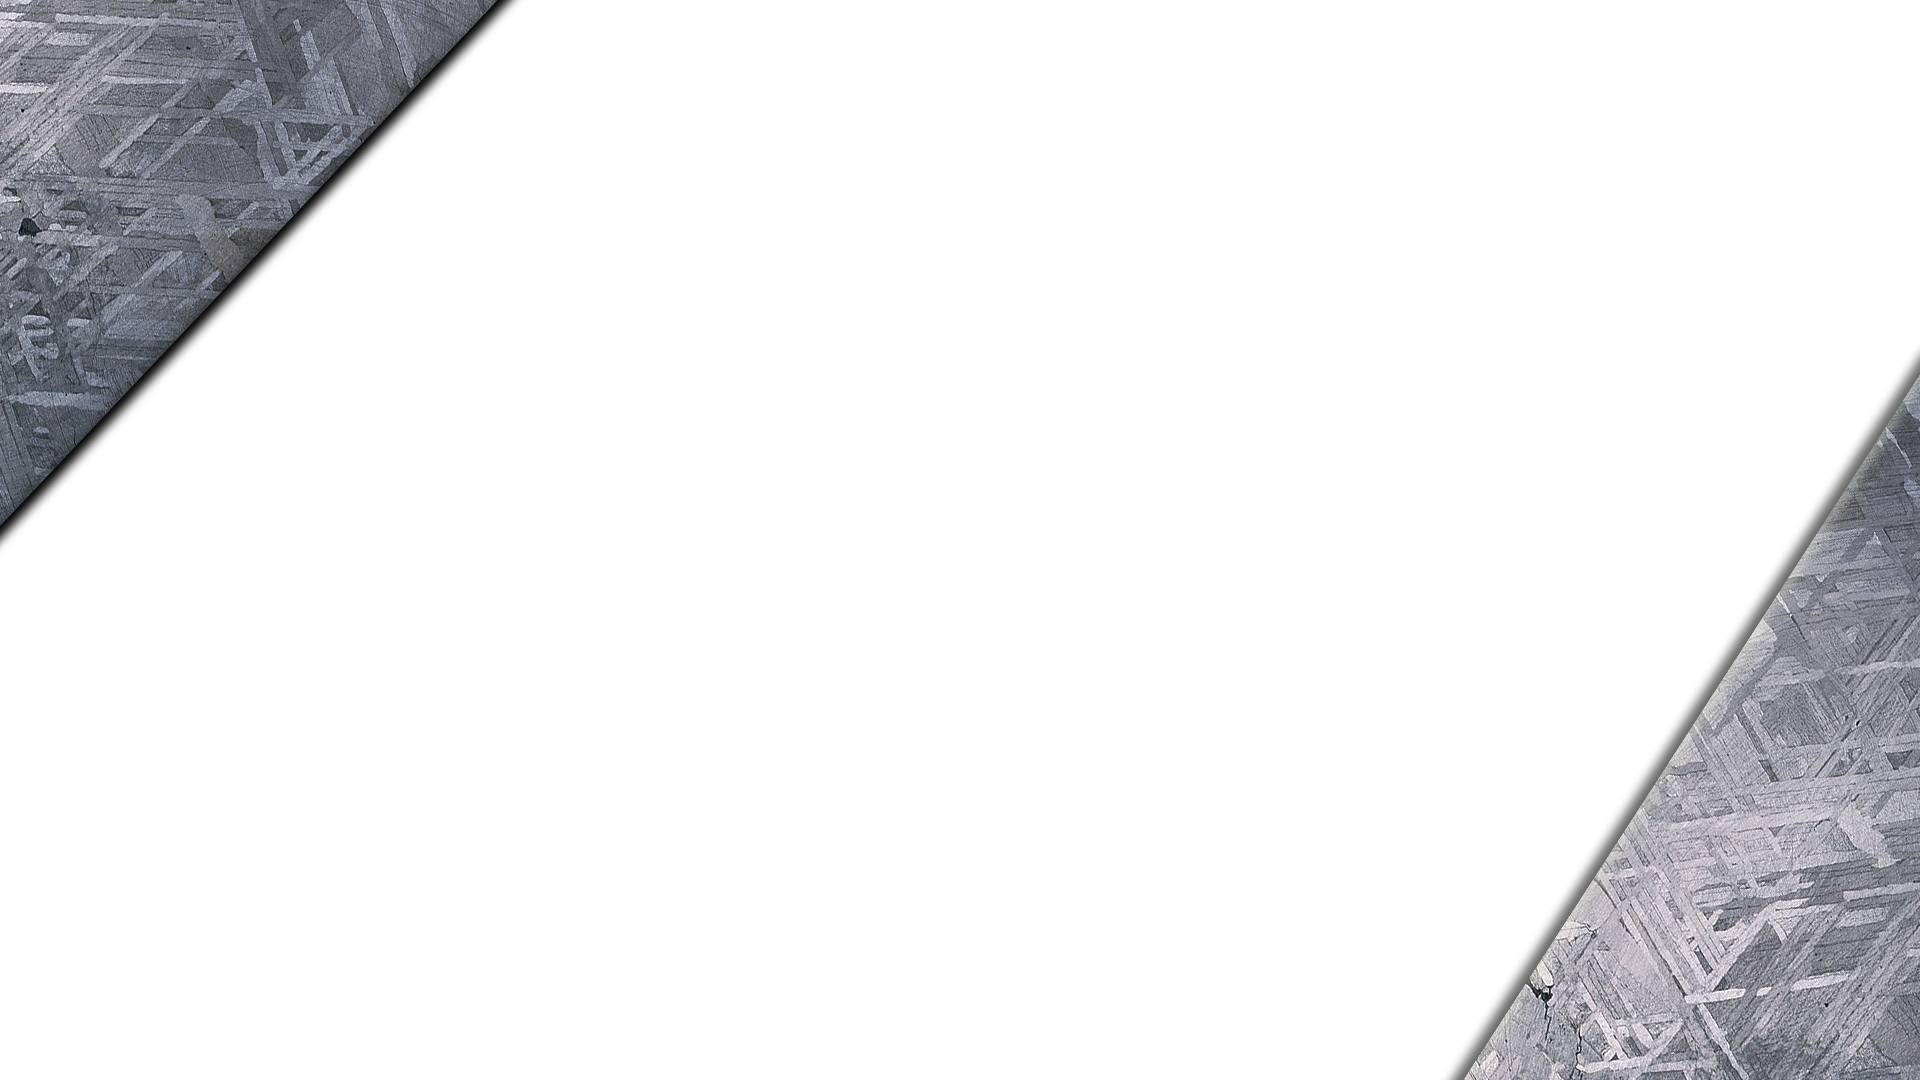
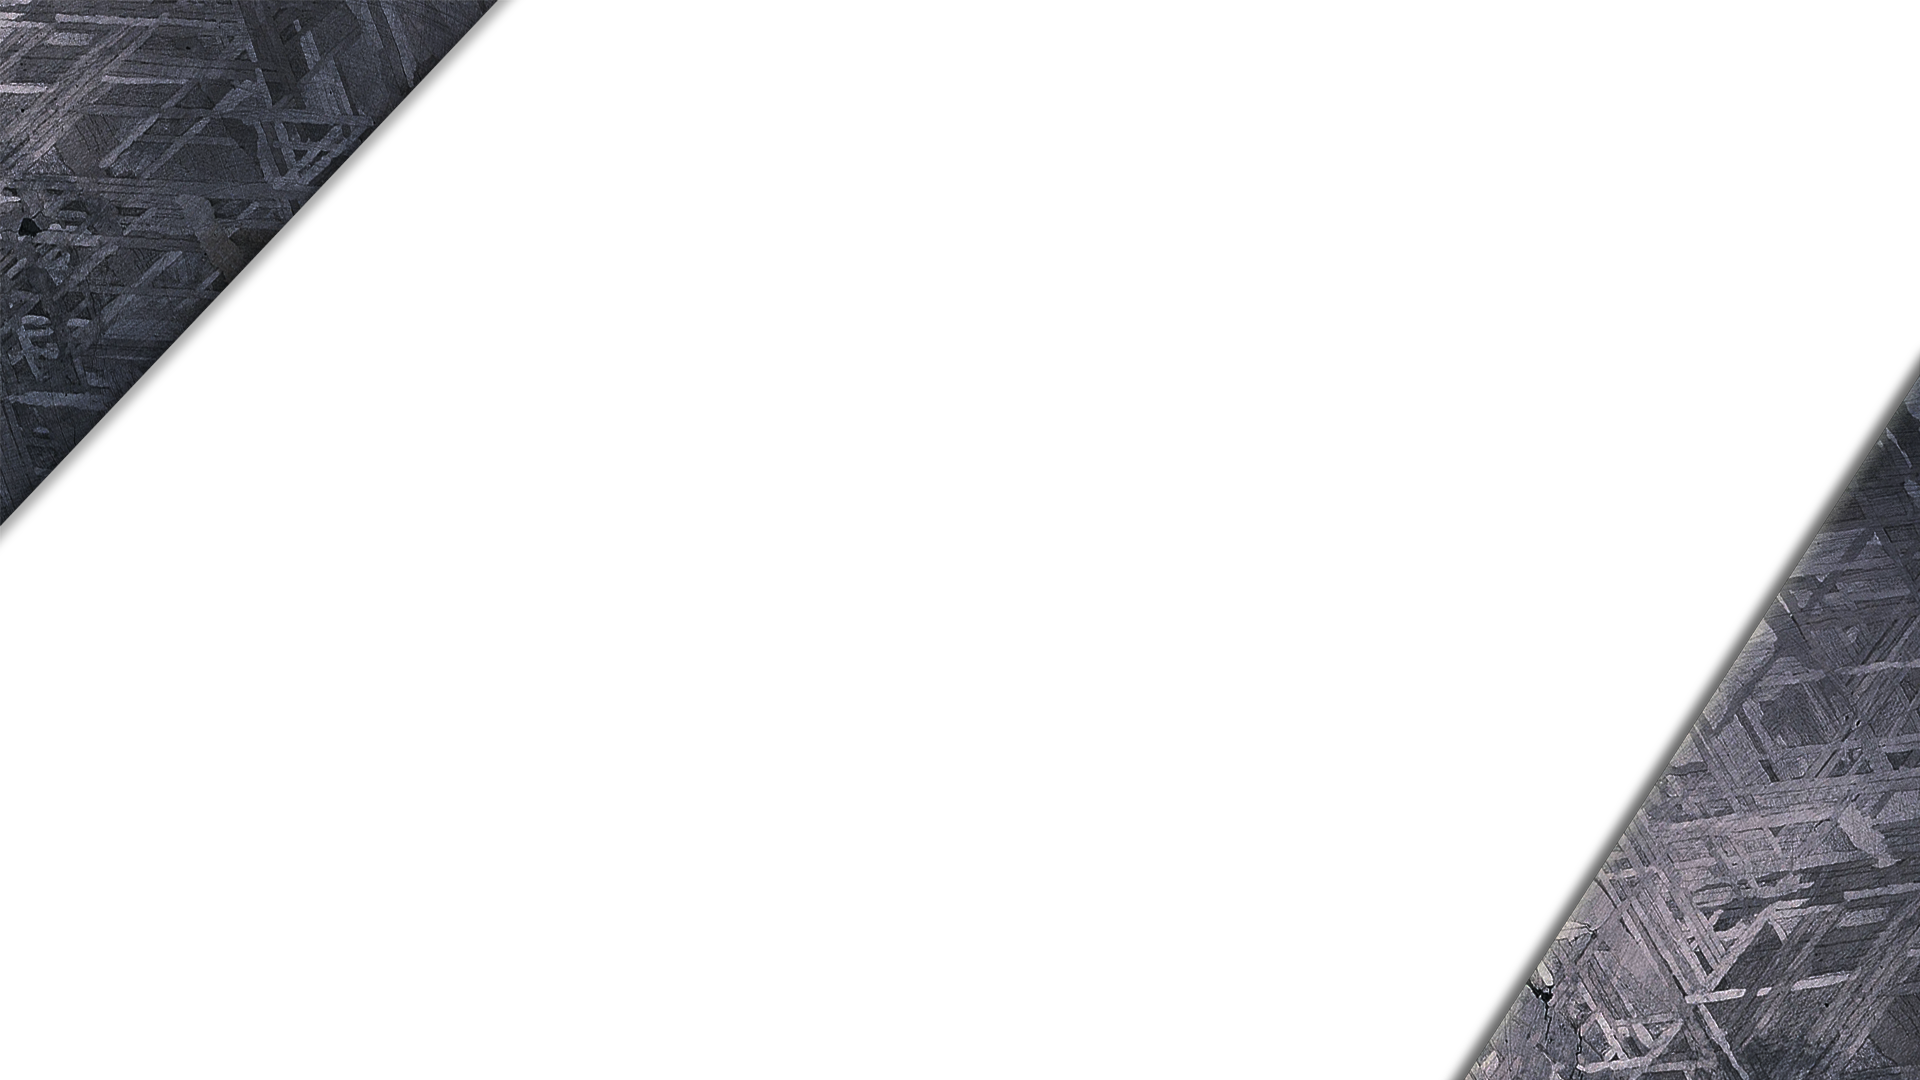
tidied up graphics

Changed region(s): [[0.75, 0.3667, 1.0, 1.0], [0.0, 0.0, 0.2812, 0.4889]]

diff --git a/app/index.html b/app/index.html
@@ -34,7 +34,7 @@
                             `
                         }" 
                         :src="`images/pokemon/${s1dynamicReset.species.value}.png`" />
-                    <div class="colored-image" style="--url: url(images/left_ui/Electric.png)"></div>
+                    <div class="colored-image" style="--url: url(images/left_ui/ui.png)"></div>
                     <img class="canvas" src="images/elements/overlay/gen1&2/gamearea.png" />
                     <img class="canvas" src="images/exp_bar/stats.png"/>
                     <img class="canvas" src="images/exp_bar/exp_bar.png" style="left: 1px;"/>
@@ -69,7 +69,7 @@
                         <div class="statsLabelStyle statsLabelsColumn2"><br>Spc:<br>Spd:<br></div>
                         <div class="statsheader">Base Stats</div>
                         <div class="statsColumnStyle statsColumn1">{{ g1PokemonData[starterName].base_hp }}<br>{{ g1PokemonData[starterName].base_atk }}<br>{{ g1PokemonData[starterName].base_def }}<br></div>
-                        <div class="critrate">Crit rate: {{ g1CritRate(g1PokemonData[starterName].base_spd) }}%</div>
+                        <div class="critrate">Crit rate: {{ g1CritRate(g1PokemonData[starterName]?.base_spd) }}%</div>
                         <div class="statsColumnStyle statsColumn2"><br>{{ g1PokemonData[starterName].base_spc }}<br>{{ g1PokemonData[starterName].base_spd }}<br></div>
                     </div>
                     <!-- OVERWORLD STATS --------------------------------------------------------------------------->
@@ -250,7 +250,7 @@
                                 <td class="movepool_tableC">{{x.PP}}</td>
                             </tr>
                         </table>
-                        <div class="colored-image" style="--url: url(images/movepool_border/Electric.png)"></div>
+                        <div class="colored-image" style="--url: url(images/movepool_border/ui.png)"></div>
                         <div class="movepoolLabel">Movepool</div>
                     </div>
                 </transition>
@@ -611,10 +611,10 @@
             <div>PP: {{g1MoveData[capitalization_format(this.most_recent_move)]?.PP}}</div>
             <div>Move Description: {{g1MoveData[capitalization_format(this.most_recent_move)]?.Description}}</div>
             <div>Game Over: {{game_over}}</div>
-            <div>PlayerID: {{mapper?.properties?.player.playerId.value}}</div>
+            <!-- <div>PlayerID: {{mapper?.properties?.player.playerId.value}}</div>
             <div>Internal PlayerID: {{playerId}}</div>
             <div>Viridian Forest: {{viridian_forest}}</div>
-            <div>Species1: {{mapper?.properties.player.team[1].species}}</div>
+            <div>Species1: {{mapper?.properties.player.team[1].species}}</div> -->
         </div>
     </div>
 

diff --git a/app/style-yellow.css b/app/style-yellow.css
@@ -1360,11 +1360,11 @@ box-shadow:
     line-height: 20px;
 
     /* line-height: 35px; */
-    width: 362px;
+    width: 366px;
     height: 966px;
     font-family: play;
-    left: 1539px;
-    top: 77px;
+    left: 1536px;
+    top: 74px;
     opacity: .9;
     border: none;
 }
